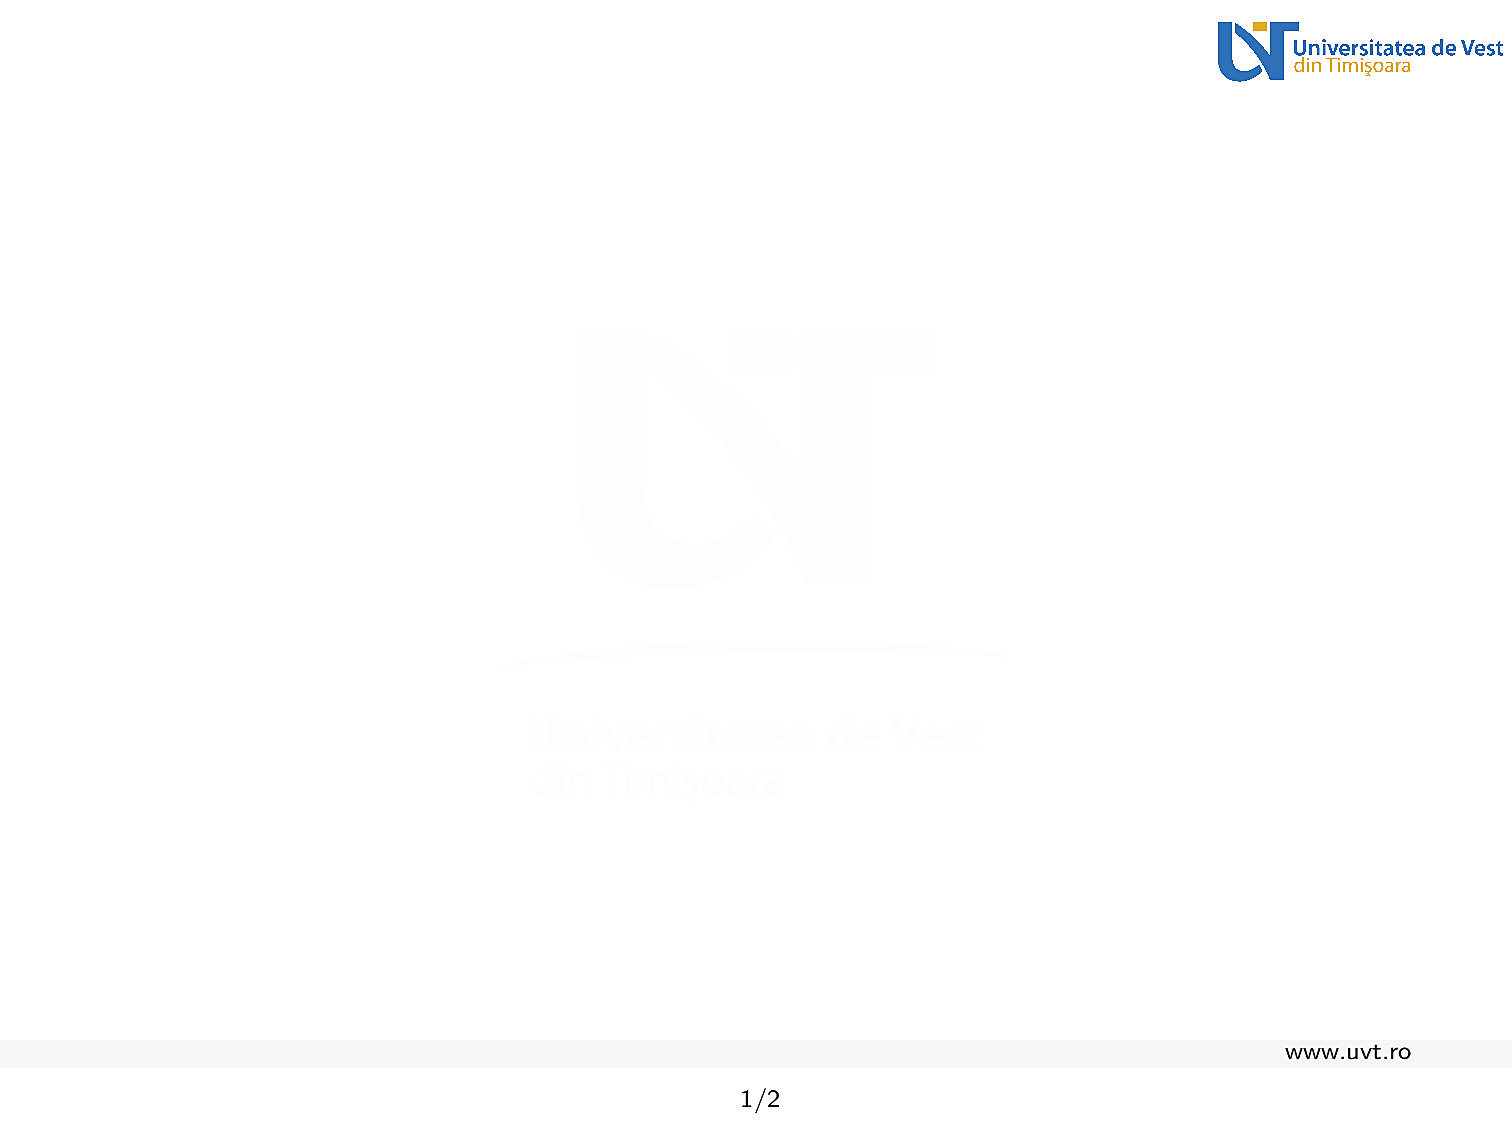
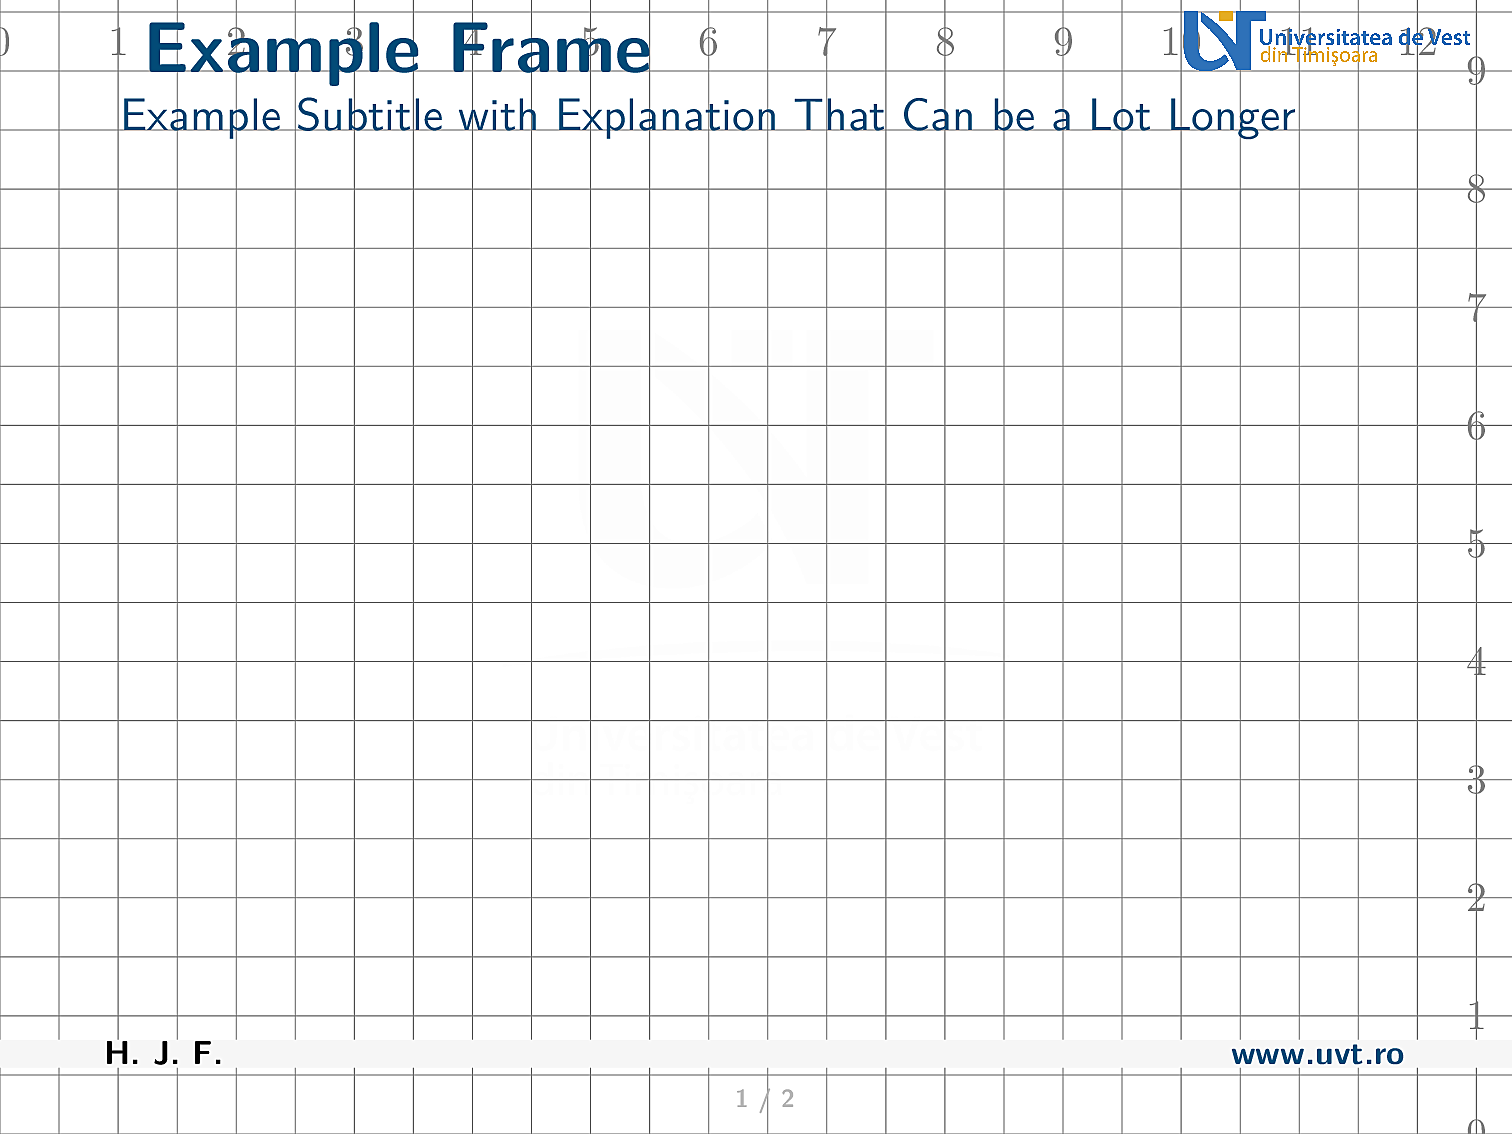
feat: add section pages and others

diff --git a/template.tex b/template.tex
@@ -17,7 +17,7 @@
 
 \title{Presentation Template}
 \subtitle{Example}
-\author[TL]{Dr. Profesor Hubert J. Farnsworth}
+\author[H. J. F.]{Dr. Profesor Hubert J. Farnsworth}
 \institute{West University of Timișoara}
 \date{21st December, 2023}
 
@@ -28,20 +28,23 @@
 \titleframe
 
 \begin{frame}{Example Frame}
+\framesubtitle{Example Subtitle with Explanation That Can be a Lot Longer}
 \end{frame}
 
+\section{Blocks}
+
 \begin{frame}{Example Frame: Blocks}
-\begin{block}{Example Block}
+\begin{block}{Block 1}
 Some block text
 \end{block}
 
-\begin{alertblock}{Alert}
+\begin{alertblock}{Alert 1}
 Some block text
 \end{alertblock}
 
-\begin{examples}{Example 1}
+\begin{exampleblock}{Example 1}
 Some example
-\end{examples}
+\end{exampleblock}
 \end{frame}
 
 \end{document}

diff --git a/uvt-motto.tex b/uvt-motto.tex
@@ -1,0 +1,18 @@
+\documentclass[a4paper,11pt]{article}
+\usepackage{fontspec}
+\usepackage{graphicx}
+\usepackage{xcolor}
+
+\setmainfont{Scriptina Pro}
+\definecolor{UVTOrange}{RGB}{228, 172, 36}
+
+%opening
+\title{}
+\author{Alexandru Fikl}
+
+\begin{document}
+
+\Huge
+\textcolor{UVTOrange}{Discover Excellence}
+
+\end{document}
